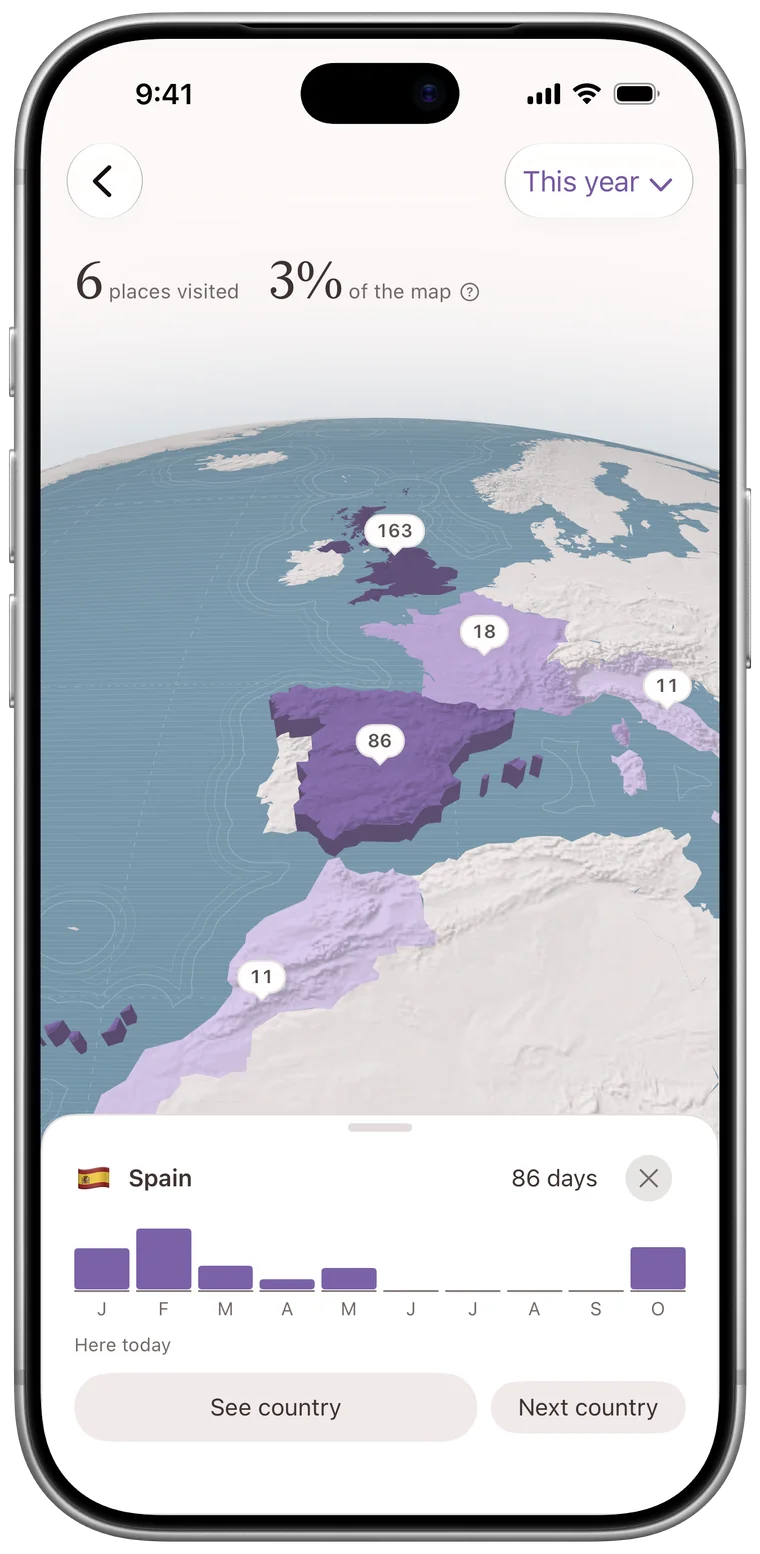
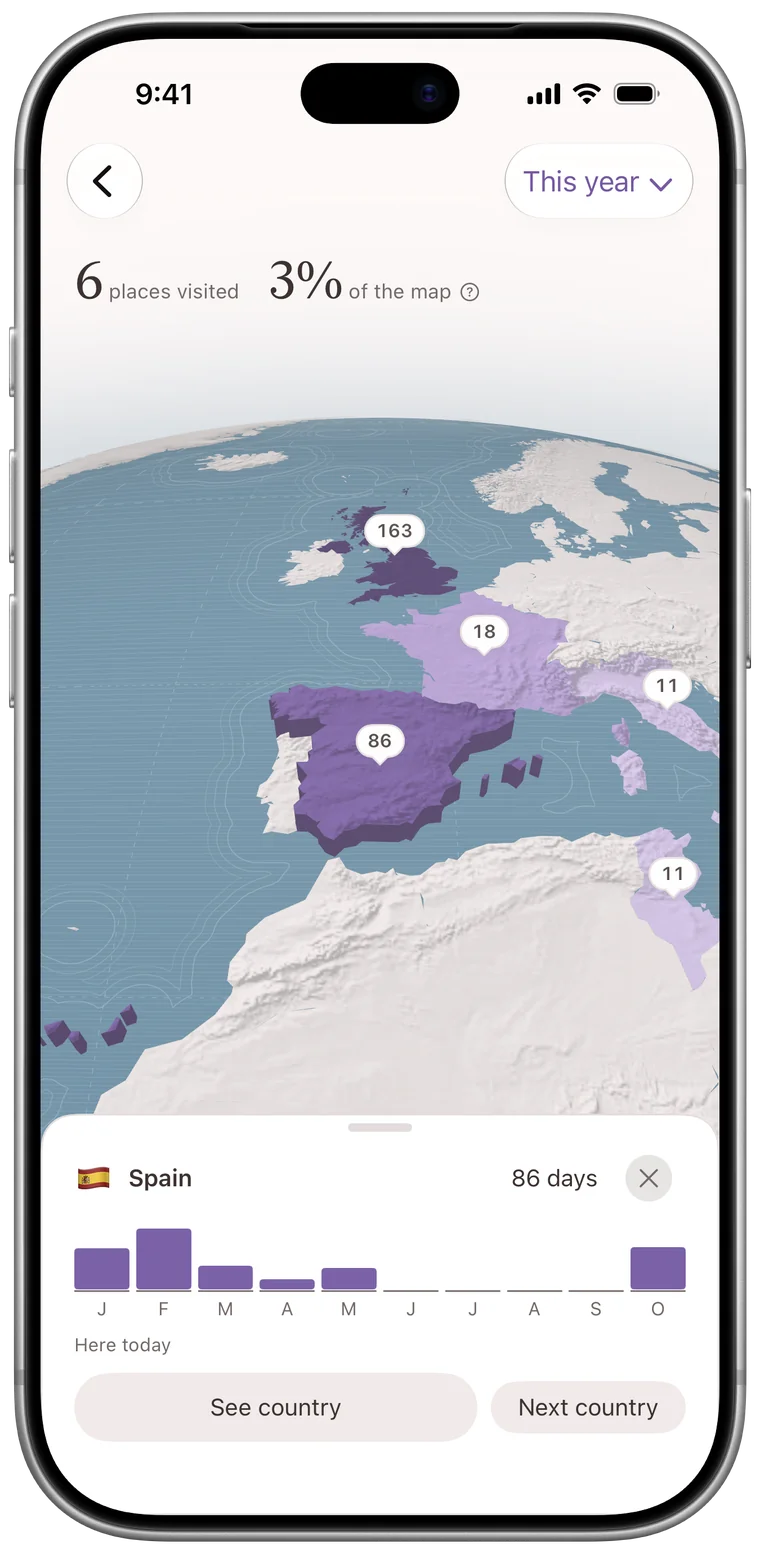
The landing's pictures redrawn: the showcase in Tunisia, not Morocco (country-days e606f91)

Changed region(s): [[0.1211, 0.556, 0.575, 0.7413], [0.8171, 0.5251, 0.9684, 0.6486]]

diff --git a/es/index.html b/es/index.html
@@ -17,14 +17,14 @@
 <meta property="og:description" content="Phileas cuenta los días que pasas en cada país para respetar límites como los 90 días de cada 180 de Schengen o los 183 de residencia fiscal.">
 <meta property="og:url" content="https://phileasfogg.app/es/">
 <meta property="og:locale" content="es_ES">
-<meta property="og:image" content="https://phileasfogg.app/pictures/es/share-d291ed5a.jpg">
+<meta property="og:image" content="https://phileasfogg.app/pictures/es/share-001d21be.jpg">
 <meta property="og:image:width" content="1200">
 <meta property="og:image:height" content="630">
 <meta property="og:image:alt" content="Phileas en dos iPhone: un mapa de los países visitados este año y un mes con la bandera de cada día.">
 <meta name="twitter:card" content="summary_large_image">
 <meta name="twitter:title" content="Phileas — cuenta días por país: Schengen 90/180 y 183 días">
 <meta name="twitter:description" content="Phileas cuenta los días que pasas en cada país para respetar límites como los 90 días de cada 180 de Schengen o los 183 de residencia fiscal.">
-<meta name="twitter:image" content="https://phileasfogg.app/pictures/es/share-d291ed5a.jpg">
+<meta name="twitter:image" content="https://phileasfogg.app/pictures/es/share-001d21be.jpg">
 <meta name="twitter:image:alt" content="Phileas en dos iPhone: un mapa de los países visitados este año y un mes con la bandera de cada día.">
 <link rel="icon" href="/favicon.svg" type="image/svg+xml">
 <link rel="stylesheet" href="/site.css">

diff --git a/index.html b/index.html
@@ -17,14 +17,14 @@
 <meta property="og:description" content="Phileas counts the days you spend in each country, so you can keep to limits such as Schengen’s 90 days in 180 or 183 days of tax residency.">
 <meta property="og:url" content="https://phileasfogg.app/">
 <meta property="og:locale" content="en_US">
-<meta property="og:image" content="https://phileasfogg.app/pictures/en/share-c9857ed4.jpg">
+<meta property="og:image" content="https://phileasfogg.app/pictures/en/share-ec5e7a31.jpg">
 <meta property="og:image:width" content="1200">
 <meta property="og:image:height" content="630">
 <meta property="og:image:alt" content="Phileas on two iPhones: a map of the countries visited this year, and a month with each day’s flag.">
 <meta name="twitter:card" content="summary_large_image">
 <meta name="twitter:title" content="Phileas — count days per country: Schengen 90/180, 183 days">
 <meta name="twitter:description" content="Phileas counts the days you spend in each country, so you can keep to limits such as Schengen’s 90 days in 180 or 183 days of tax residency.">
-<meta name="twitter:image" content="https://phileasfogg.app/pictures/en/share-c9857ed4.jpg">
+<meta name="twitter:image" content="https://phileasfogg.app/pictures/en/share-ec5e7a31.jpg">
 <meta name="twitter:image:alt" content="Phileas on two iPhones: a map of the countries visited this year, and a month with each day’s flag.">
 <link rel="icon" href="/favicon.svg" type="image/svg+xml">
 <link rel="stylesheet" href="/site.css">

diff --git a/privacy/index.html b/privacy/index.html
@@ -15,14 +15,14 @@
 <meta property="og:url" content="https://phileasfogg.app/privacy/">
 <meta property="og:locale" content="en_US">
 <meta property="og:locale:alternate" content="es_ES">
-<meta property="og:image" content="https://phileasfogg.app/pictures/en/share-c9857ed4.jpg">
+<meta property="og:image" content="https://phileasfogg.app/pictures/en/share-ec5e7a31.jpg">
 <meta property="og:image:width" content="1200">
 <meta property="og:image:height" content="630">
 <meta property="og:image:alt" content="Phileas on two iPhones: a map of the countries visited this year, and a month with each day’s flag.">
 <meta name="twitter:card" content="summary_large_image">
 <meta name="twitter:title" content="Phileas privacy policy">
 <meta name="twitter:description" content="Phileas keeps everything on your phone: no account, no server, no analytics. If you buy Pro, Apple handles the purchase. Política de privacidad en español incluida.">
-<meta name="twitter:image" content="https://phileasfogg.app/pictures/en/share-c9857ed4.jpg">
+<meta name="twitter:image" content="https://phileasfogg.app/pictures/en/share-ec5e7a31.jpg">
 <meta name="twitter:image:alt" content="Phileas on two iPhones: a map of the countries visited this year, and a month with each day’s flag.">
 <link rel="icon" href="/favicon.svg" type="image/svg+xml">
 <link rel="stylesheet" href="/site.css">

diff --git a/support/index.html b/support/index.html
@@ -15,14 +15,14 @@
 <meta property="og:url" content="https://phileasfogg.app/support/">
 <meta property="og:locale" content="en_US">
 <meta property="og:locale:alternate" content="es_ES">
-<meta property="og:image" content="https://phileasfogg.app/pictures/en/share-c9857ed4.jpg">
+<meta property="og:image" content="https://phileasfogg.app/pictures/en/share-ec5e7a31.jpg">
 <meta property="og:image:width" content="1200">
 <meta property="og:image:height" content="630">
 <meta property="og:image:alt" content="Phileas on two iPhones: a map of the countries visited this year, and a month with each day’s flag.">
 <meta name="twitter:card" content="summary_large_image">
 <meta name="twitter:title" content="Phileas support">
 <meta name="twitter:description" content="Phileas counts the days you spend in each country, on your phone.">
-<meta name="twitter:image" content="https://phileasfogg.app/pictures/en/share-c9857ed4.jpg">
+<meta name="twitter:image" content="https://phileasfogg.app/pictures/en/share-ec5e7a31.jpg">
 <meta name="twitter:image:alt" content="Phileas on two iPhones: a map of the countries visited this year, and a month with each day’s flag.">
 <link rel="icon" href="/favicon.svg" type="image/svg+xml">
 <link rel="stylesheet" href="/site.css">
